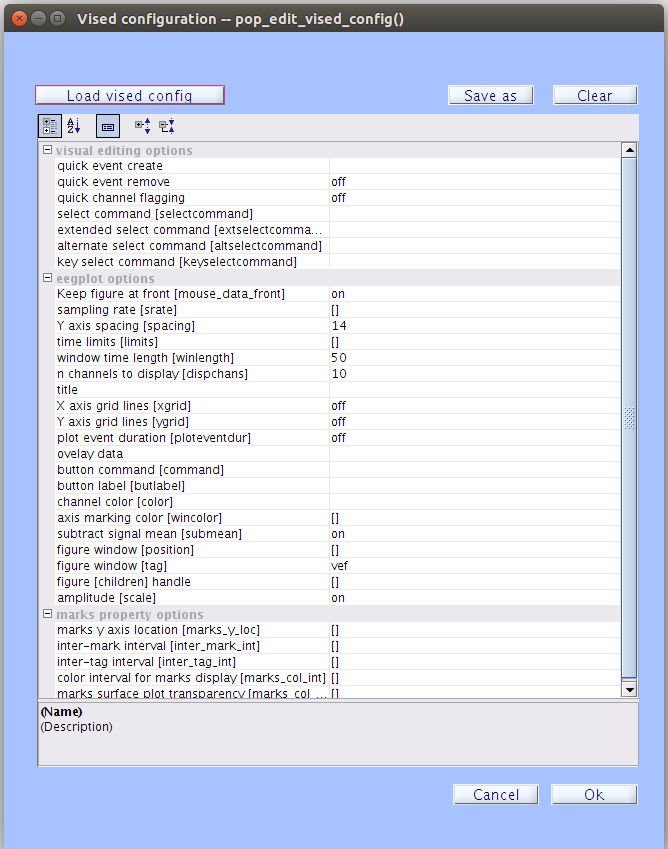
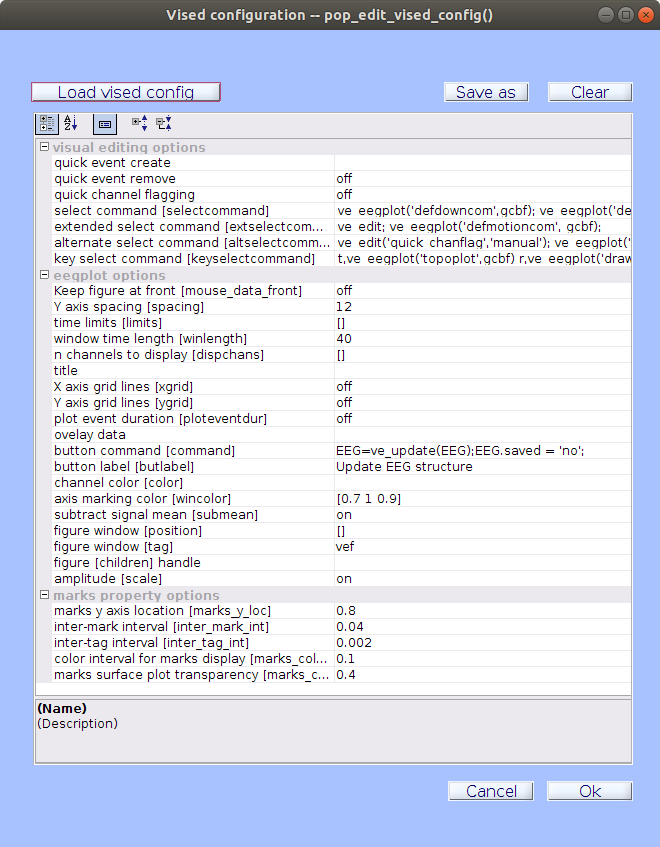
added first figures for episodes 2 and 3

Changed region(s): [[0.0, 0.0, 1.0, 1.0], [0.4848, 0.3377, 0.8182, 0.5525], [0.8485, 0.5218, 0.8788, 0.5525]]

diff --git a/_episodes/03-running_QC_script.md b/_episodes/03-running_QC_script.md
@@ -24,13 +24,17 @@ keypoints:
 
 4. In the main EEGLAB window, navigate to **File->Vised Configuration**. 
 
+    ![Vised Config Dropdown Menu]({{ page.root }}/fig/visedconfig_dropdown.png)
+
 5. Add the vised configuration file by clicking **Load vised config** and then navigate to the config folder (`derivatives/lossless/code/config/`). Select the file named `vised_config_qc.cfg`, and click **OK**. The vised configuration file will load certain settings that are preferable for the QC procedure.
 
-    **Add an image of the eeglab window and of the Vised Config (FIXME).** 
+    ![Vised Config Menu]({{ page.root }}/fig/visedconfig.png)
 
 6. In the main eeglab window, navigate to **File->Batch->Run History Template Batch**.
 
-7. In the **Run History Template Batch** window, add a Context configuration file. The default file will be sufficient for this task: `derivatives/loseless/code/config/contextconfig.cfg`. 
+    ![Run History Template Batch Menu]({{ page.root }}/fig/pop_runhtb.png)
+
+7. In the **Run History Template Batch** window, add a Context configuration file by clicking **Load context cofig**. The default file will be sufficient for this task: `derivatives/loseless/code/config/contextconfig.cfg`. 
 
 8. Click **History File** and add the `qc.htb` script located in `derivatives/loseless/code/scripts/`.
 
@@ -45,8 +49,6 @@ keypoints:
 11. This will print a list of all your QC-initialized `*_qc.set` files, including the path, which you can then copy straight from the terminal into the **file** field in the **Run History Template Batch** window, with one path/filename per line.
 
 12. Click **Ok** to start the QC batch process.
-
-    **Add an image of the Run History Template Batch menu (FIXME).**
 
 13. Once you click **Ok**, the QC windows will open for your first file. The files will open in alphabetical order. Several windows will open for each file you QC, including: 
 

diff --git a/_episodes/02-preparing_for_QC.md b/_episodes/02-preparing_for_QC.md
@@ -30,7 +30,9 @@ keypoints:
 
 6. To run the `qc_init.htb` script, go to the main EEGLAB window and click **File->Batch->Run History Template Batch**.
 
-7. In the **Run History Template Batch** window, add a Context configuration file. The default file will be sufficient for this task: `derivatives/loseless/code/config/contextconfig.cfg`. 
+    ![Run History Template Batch Menu]({{ page.root }}/fig/pop_runhtb.png)
+
+7. In the **Run History Template Batch** window, add a Context configuration file by clicking **Load context config**. The default file will be sufficient for this task: `derivatives/loseless/code/config/contextconfig.cfg`. 
 
 8. Click **History File** and add the `qc_init.htb` script located in `derivatives/loseless/code/scripts/`.
 
